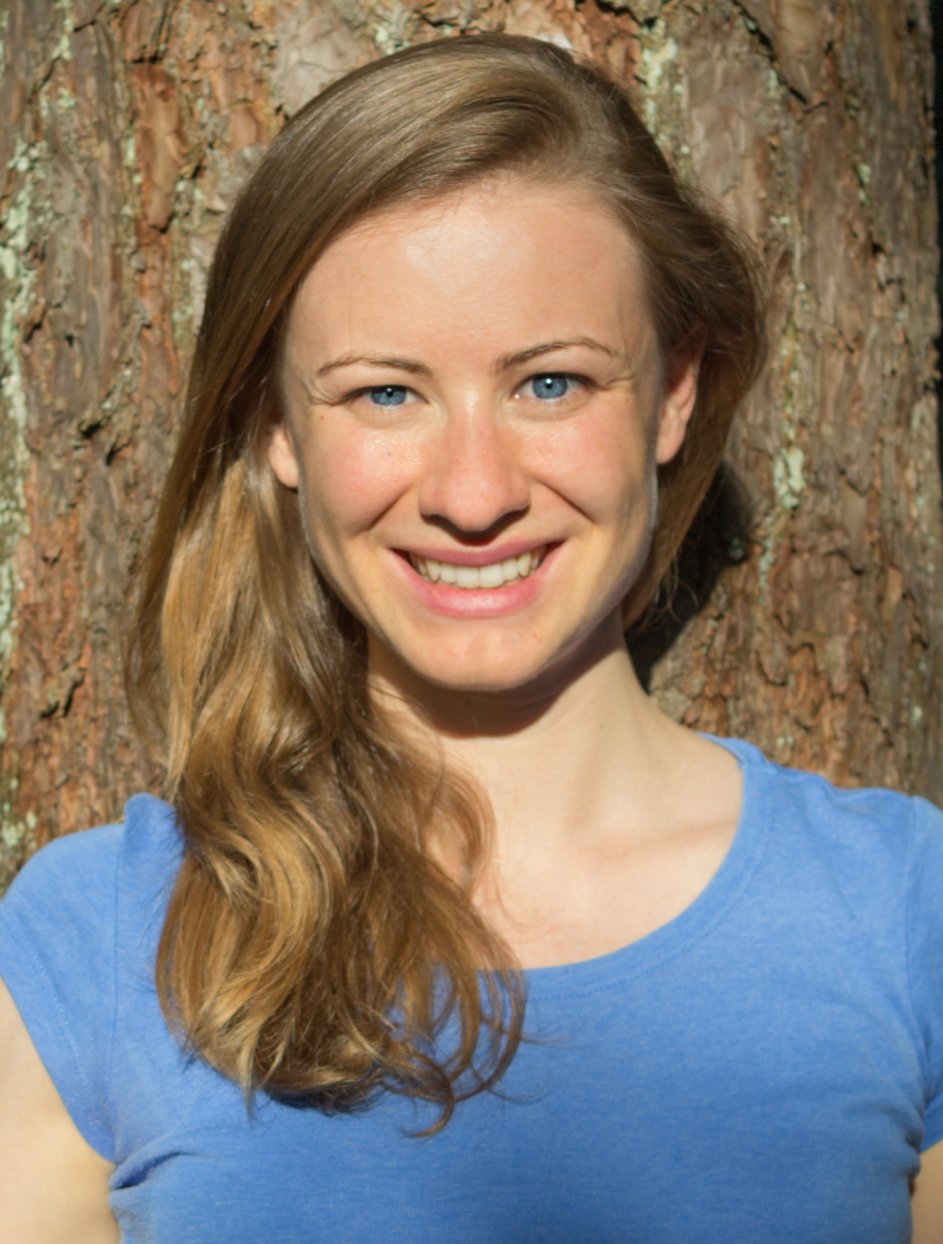
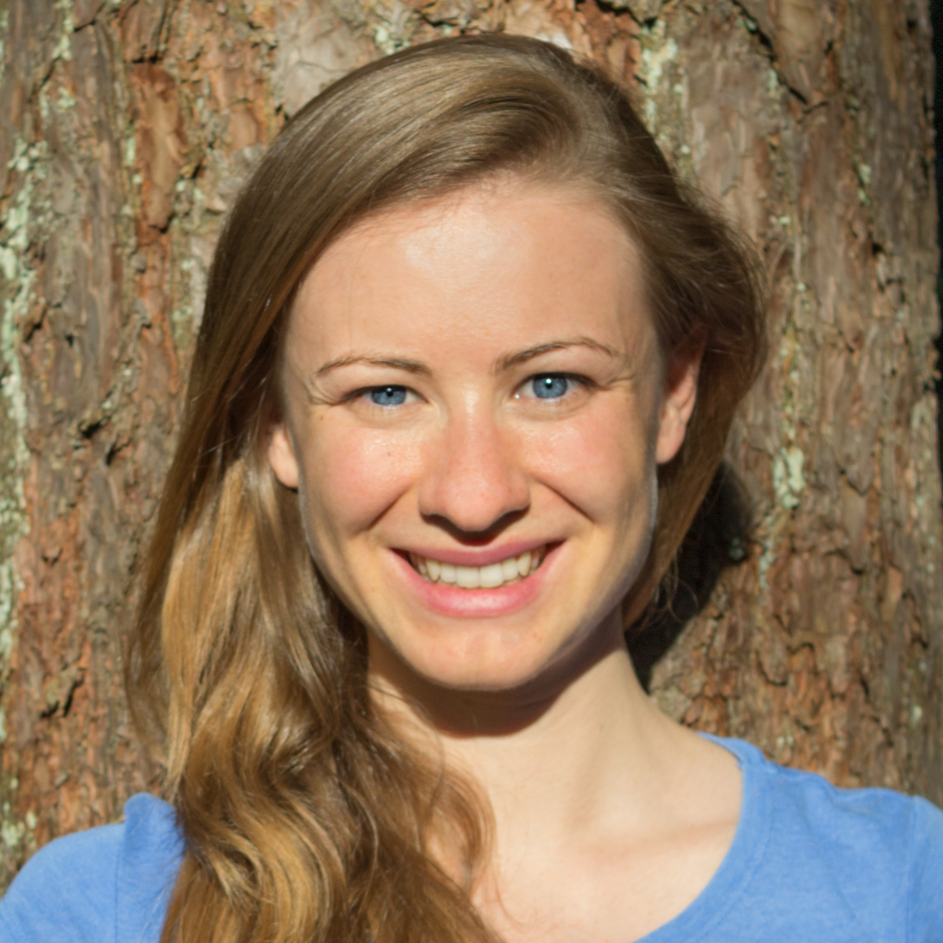
Cropped many people's profile photos to be centered in the square image window

diff --git a/docs/team.html b/docs/team.html
@@ -242,14 +242,14 @@ Released   : 20100403
 							Winter 2025 - present
 							</h4>
 							<p>
-					"I just completed by Psychology Specialization Degree. I'm currently 
+					"I just completed by Psychology Specialization degree. I'm currently 
 					working on applying mass univariate analysis to our lab's EEG data,
 					which led me to the abitious task of publishing an improved version of
-					the <a href="https://github.com/LIMO-EEG-Toolbox/limo_tools" target="_blank">LIMO MEEG Matlab toolbox</a>. In addition, I am doing research on the
+					the <a href="https://github.com/devon7y/limo_tools-3.5" target="_blank">LIMO MEEG Matlab toolbox</a>. In addition, I am doing research on the
 					Retrieving Effectively from Memory (REM) Model by introducing modern
 					memory paradigms such as attentional subsetting theory. I am also
 					interesting in research pertaining to large-language models, and frequently
-					use them for coding; for instance, this <a href="https://github.com/devon7y/MATLAB-Discord-Rich-Presence" target="_blank">Discord integration Matlab toolbox</a>
+					use them for coding; for instance, this <a href="https://github.com/devon7y/MATLAB-Discord-Rich-Presence" target="_blank">Discord Integration Matlab toolbox</a>
 					and even this lab website!"
 							</p>
 							<p>Contact: <a href="mailto:dyanitsk@ualberta.ca?" target="_top">dyanitsk@ualberta.ca</a></p>
